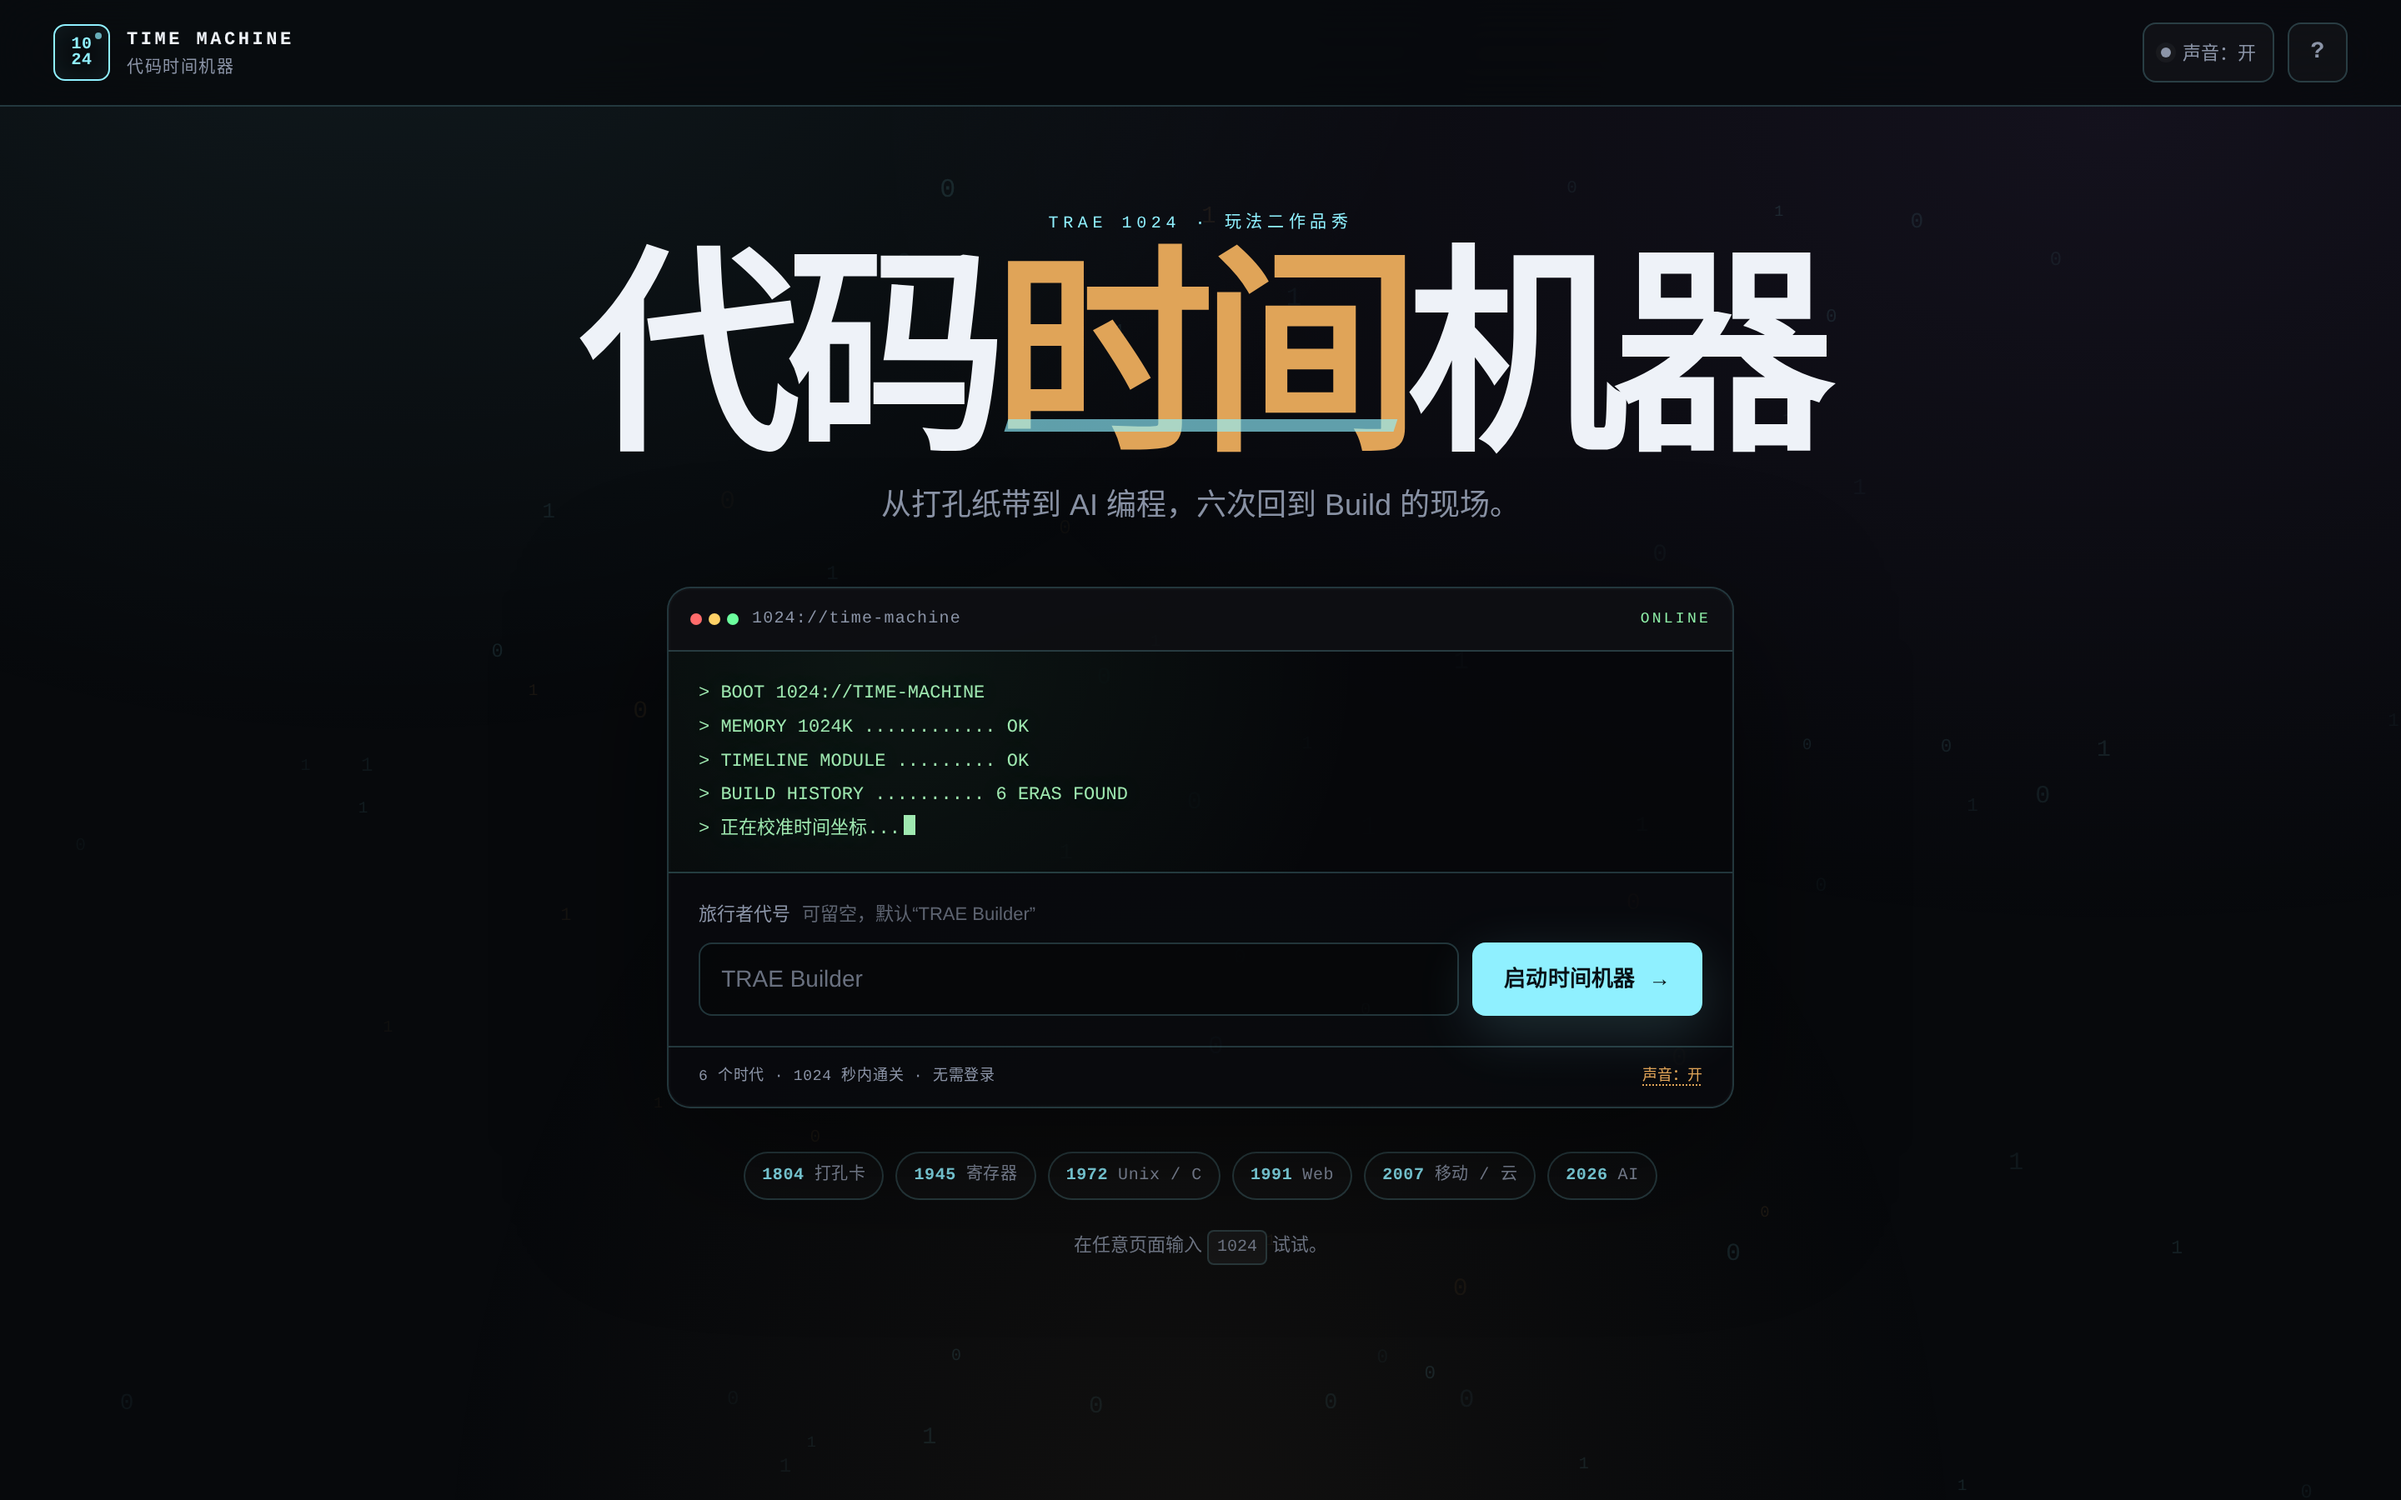
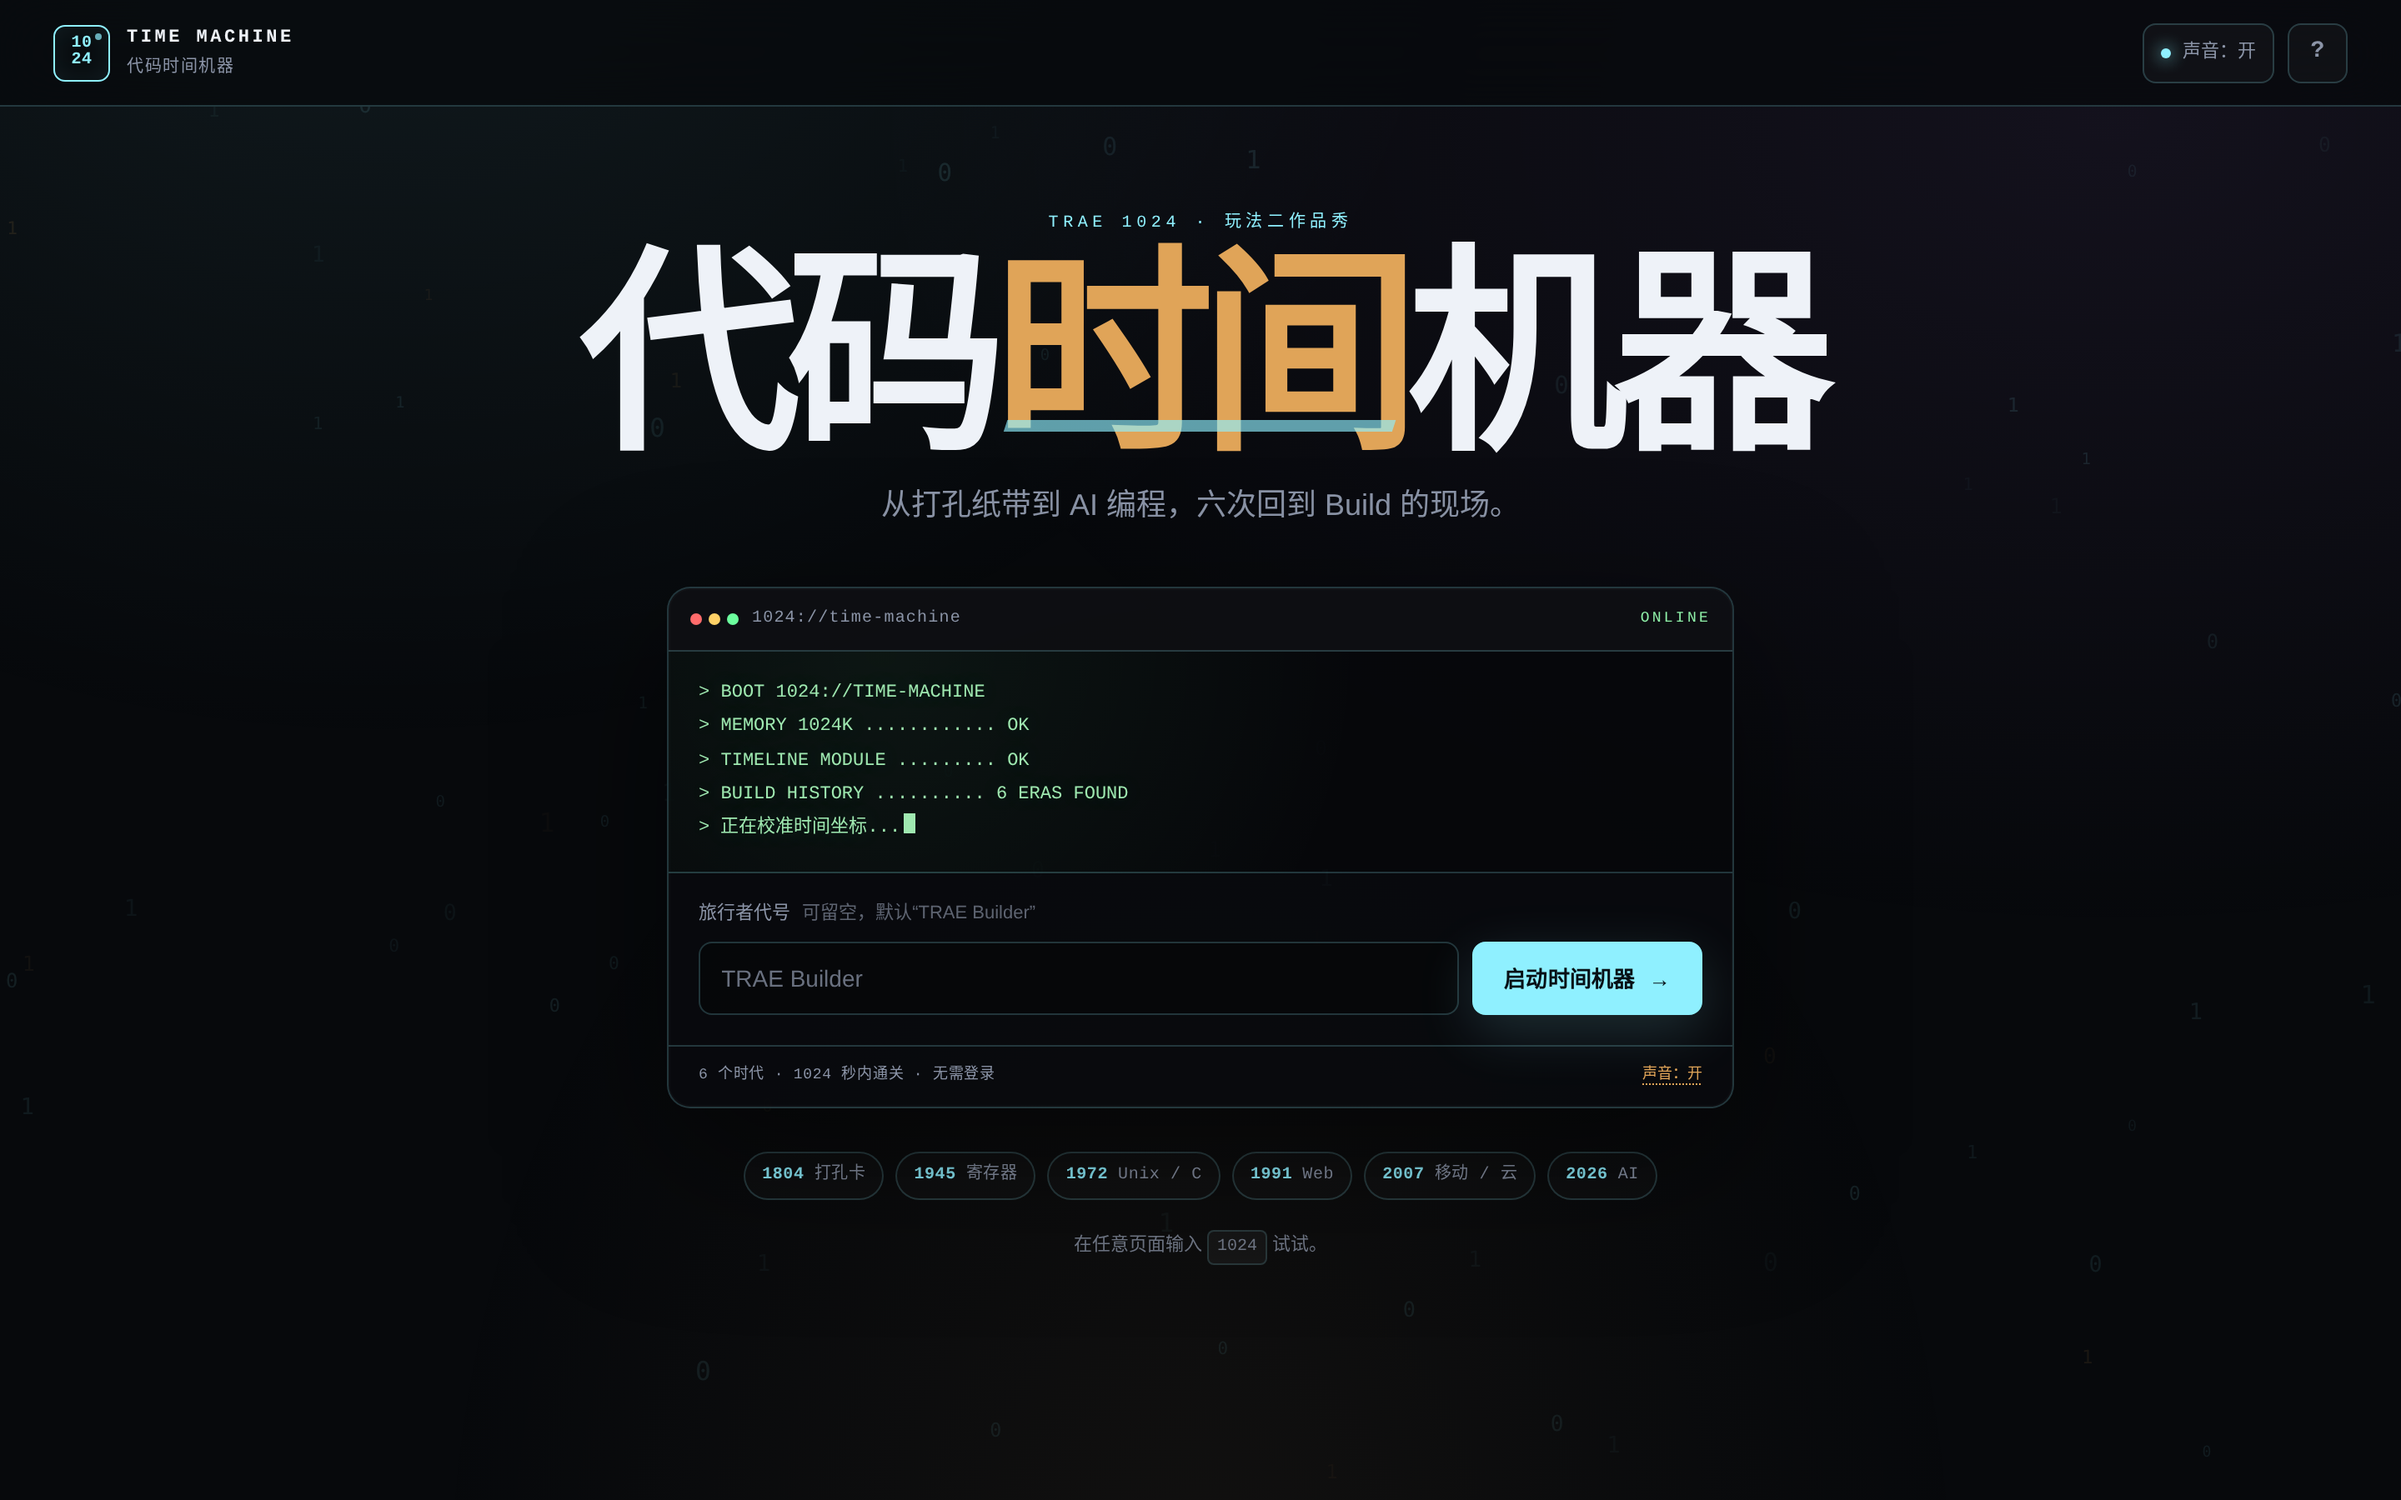
docs(readme): retake screenshots on cloud desktop

diff --git a/README.md b/README.md
@@ -39,7 +39,7 @@ TRAE 社区 1024 狂欢周 · 玩法二「TRAE 1024 作品秀」参赛作品。
 
 ![首页](https://gcore.jsdelivr.net/gh/ReSerendipity/Code-Time-Machine-1024@main/docs/assets/readme-code-time-machine-1024-1-landing.png)
 
-**1804 · 里昂 Jacquard 工坊**——用 5 位二进制打出代号首字母：
+**1804 · 里昂 Jacquard 工坊**——选好代号字母、打下第一个孔位后的状态：
 
 ![1804 打孔卡房间](https://gcore.jsdelivr.net/gh/ReSerendipity/Code-Time-Machine-1024@main/docs/assets/readme-code-time-machine-1024-3-era1-punch.png)
 
@@ -47,11 +47,11 @@ TRAE 社区 1024 狂欢周 · 玩法二「TRAE 1024 作品秀」参赛作品。
 
 ![2026 AI 房间](https://gcore.jsdelivr.net/gh/ReSerendipity/Code-Time-Machine-1024@main/docs/assets/readme-code-time-machine-1024-4-era6-ai.png)
 
-**结尾时间线 · 222 年、六枚印章、同一个孔：**
+**通关档案 · Builder 类型、四维雷达与可下载海报：**
 
-![结尾时间线](https://gcore.jsdelivr.net/gh/ReSerendipity/Code-Time-Machine-1024@main/docs/assets/readme-code-time-machine-1024-5-finale-timeline.png)
+![通关档案](https://gcore.jsdelivr.net/gh/ReSerendipity/Code-Time-Machine-1024@main/docs/assets/readme-code-time-machine-1024-5-finale-timeline.png)
 
-**移动端 · 390px 宽度下的首页与启动按钮：**
+**移动端 · 375px 宽度下的首页与启动按钮：**
 
 ![移动端首页](https://gcore.jsdelivr.net/gh/ReSerendipity/Code-Time-Machine-1024@main/docs/assets/readme-code-time-machine-1024-2-mobile.png)
 
@@ -186,7 +186,7 @@ You have **1024 seconds** from the moment you press *Start*. When time runs out,
 
 ![Landing](https://gcore.jsdelivr.net/gh/ReSerendipity/Code-Time-Machine-1024@main/docs/assets/readme-code-time-machine-1024-1-landing.png)
 
-**1804 · Jacquard workshop, Lyon** — punch your callsign's first letter in 5-bit binary:
+**1804 · Jacquard workshop, Lyon** — after picking your callsign letter and punching the first hole:
 
 ![1804 punch card room](https://gcore.jsdelivr.net/gh/ReSerendipity/Code-Time-Machine-1024@main/docs/assets/readme-code-time-machine-1024-3-era1-punch.png)
 
@@ -194,11 +194,11 @@ You have **1024 seconds** from the moment you press *Start*. When time runs out,
 
 ![2026 AI room](https://gcore.jsdelivr.net/gh/ReSerendipity/Code-Time-Machine-1024@main/docs/assets/readme-code-time-machine-1024-4-era6-ai.png)
 
-**Ending timeline · 222 years, six stamps, one and the same hole:**
+**Completion archive · Builder type, four-dimension radar and downloadable poster:**
 
-![Finale timeline](https://gcore.jsdelivr.net/gh/ReSerendipity/Code-Time-Machine-1024@main/docs/assets/readme-code-time-machine-1024-5-finale-timeline.png)
+![Completion archive](https://gcore.jsdelivr.net/gh/ReSerendipity/Code-Time-Machine-1024@main/docs/assets/readme-code-time-machine-1024-5-finale-timeline.png)
 
-**Mobile · landing and start button at 390px width:**
+**Mobile · landing and start button at 375px width:**
 
 ![Mobile landing](https://gcore.jsdelivr.net/gh/ReSerendipity/Code-Time-Machine-1024@main/docs/assets/readme-code-time-machine-1024-2-mobile.png)
 
